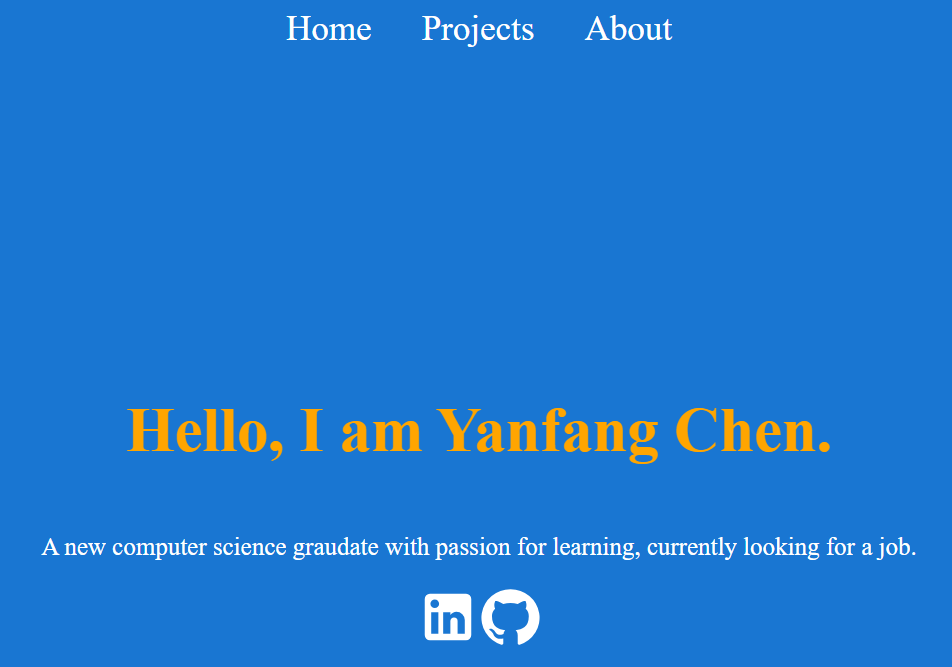
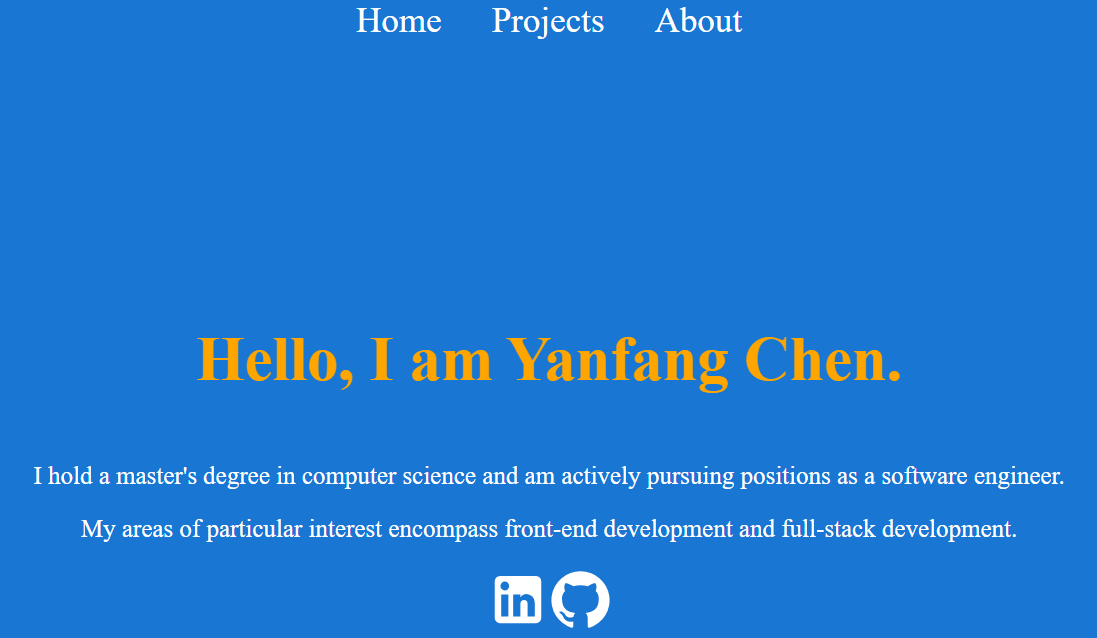
change project thumbnail

diff --git a/src/pages/Home.jsx b/src/pages/Home.jsx
@@ -9,7 +9,12 @@ function Home(){
         <div className='home'>
                 <h2 className='greeting'>Hello, I am Yanfang Chen.</h2>
                 <div className='introduction'>
-                    <p>A new computer science graudate with passion for learning, currently looking for a job.</p>
+                    <p>I hold a master's degree in computer science and am actively pursuing positions 
+                        as a software engineer.
+                    </p> 
+                    <p>My areas of particular interest encompass front-end development and full-stack 
+                        development.
+                    </p>
                     <a href='https://www.linkedin.com/in/yanfang--chen/' rel='noreferrer' target='_blank'><LinkedIn/></a>
                     <a href='https://github.com/yanfangchen209' rel='noreferrer' target='_blank'><GitHub/></a>
                 </div>
